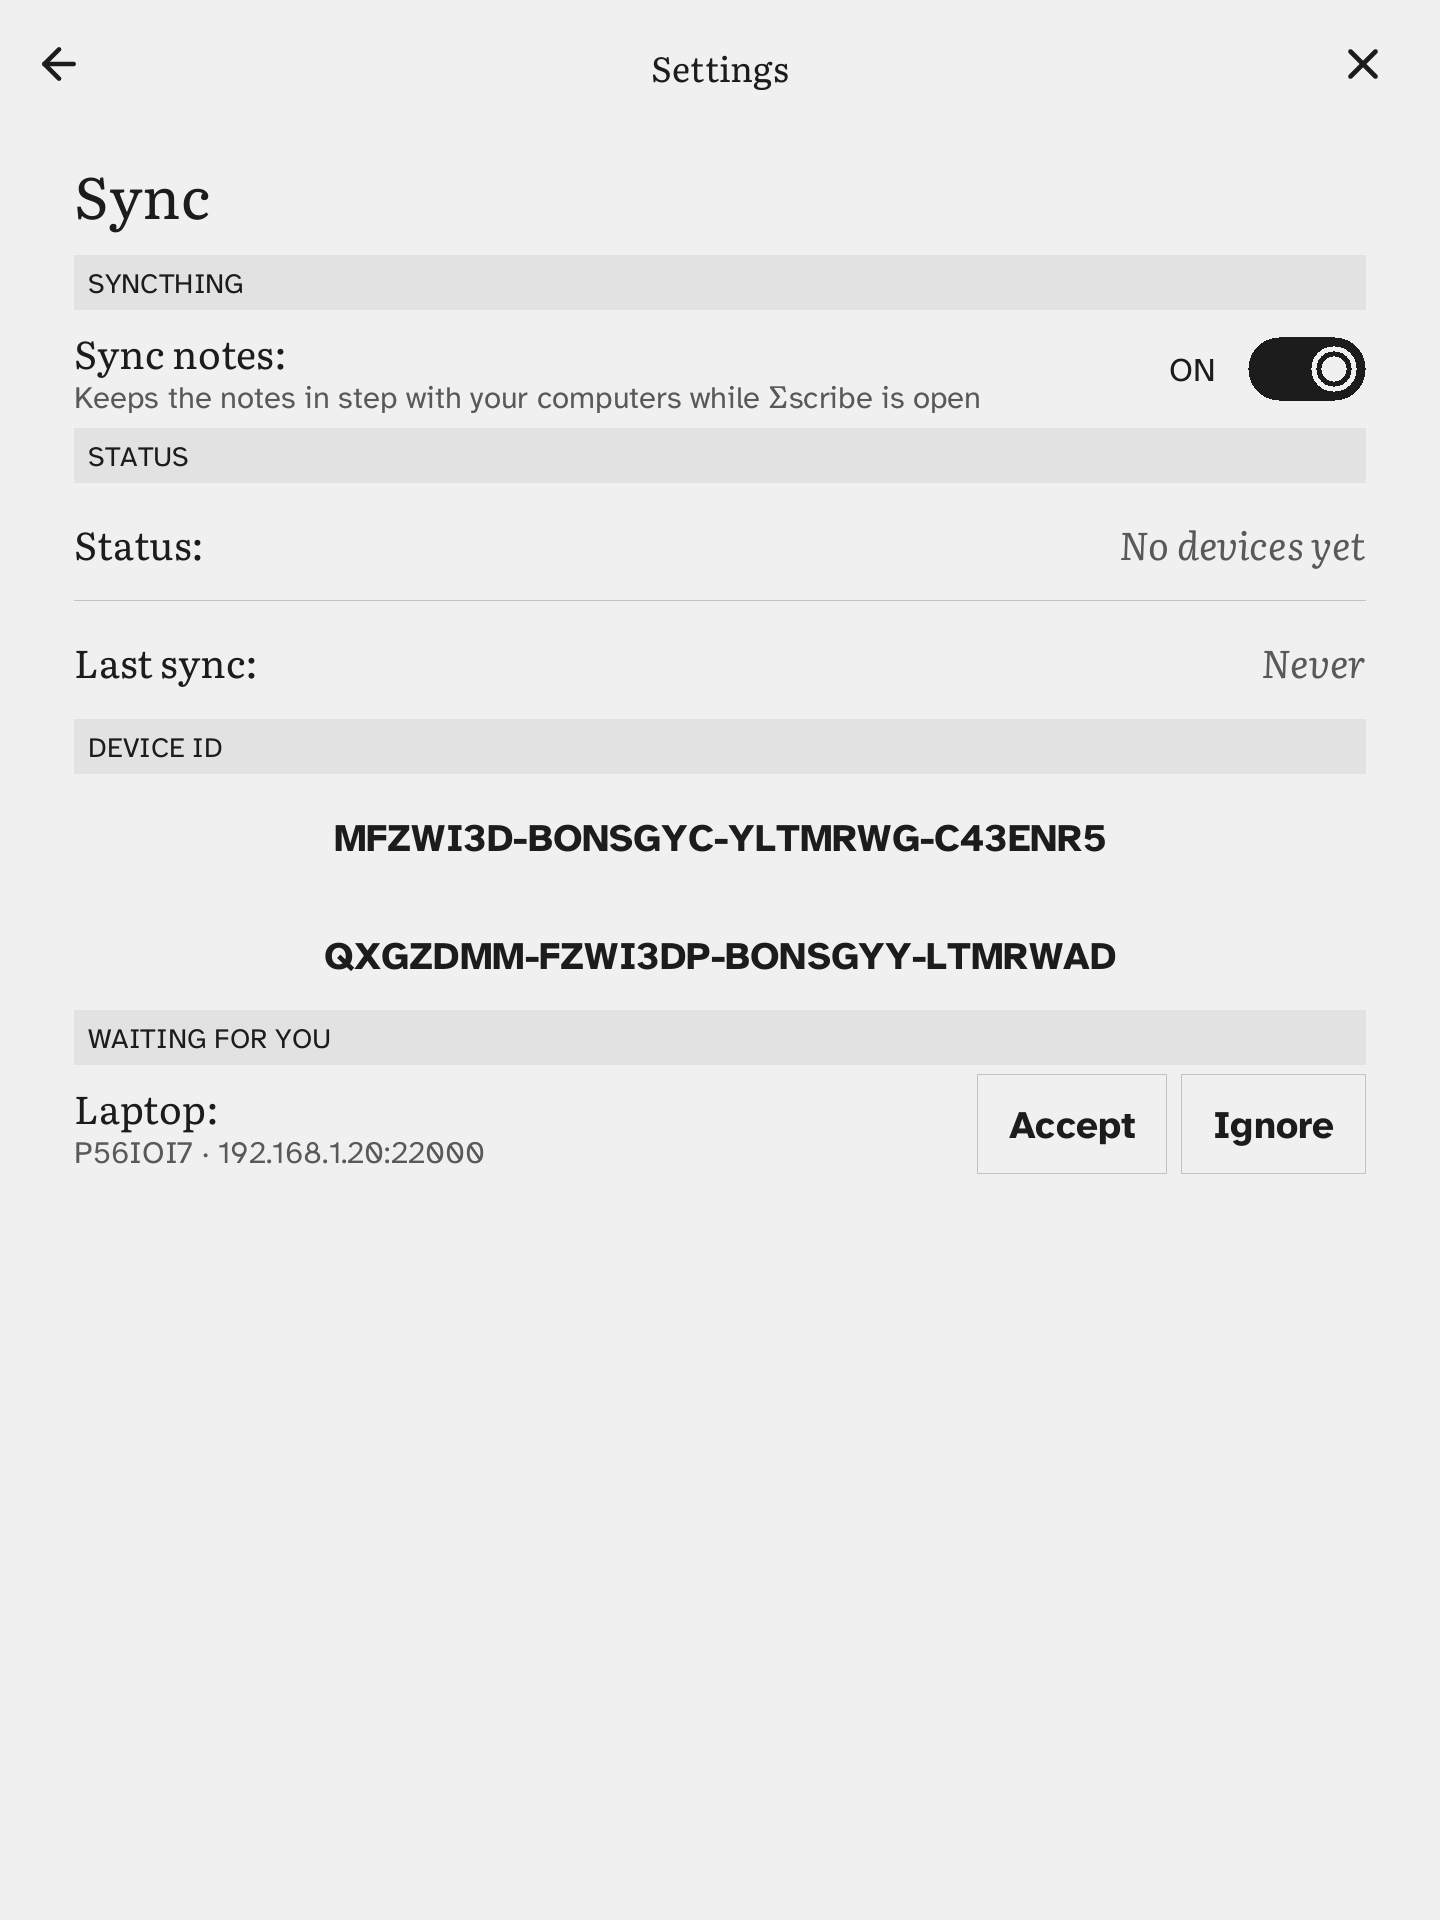
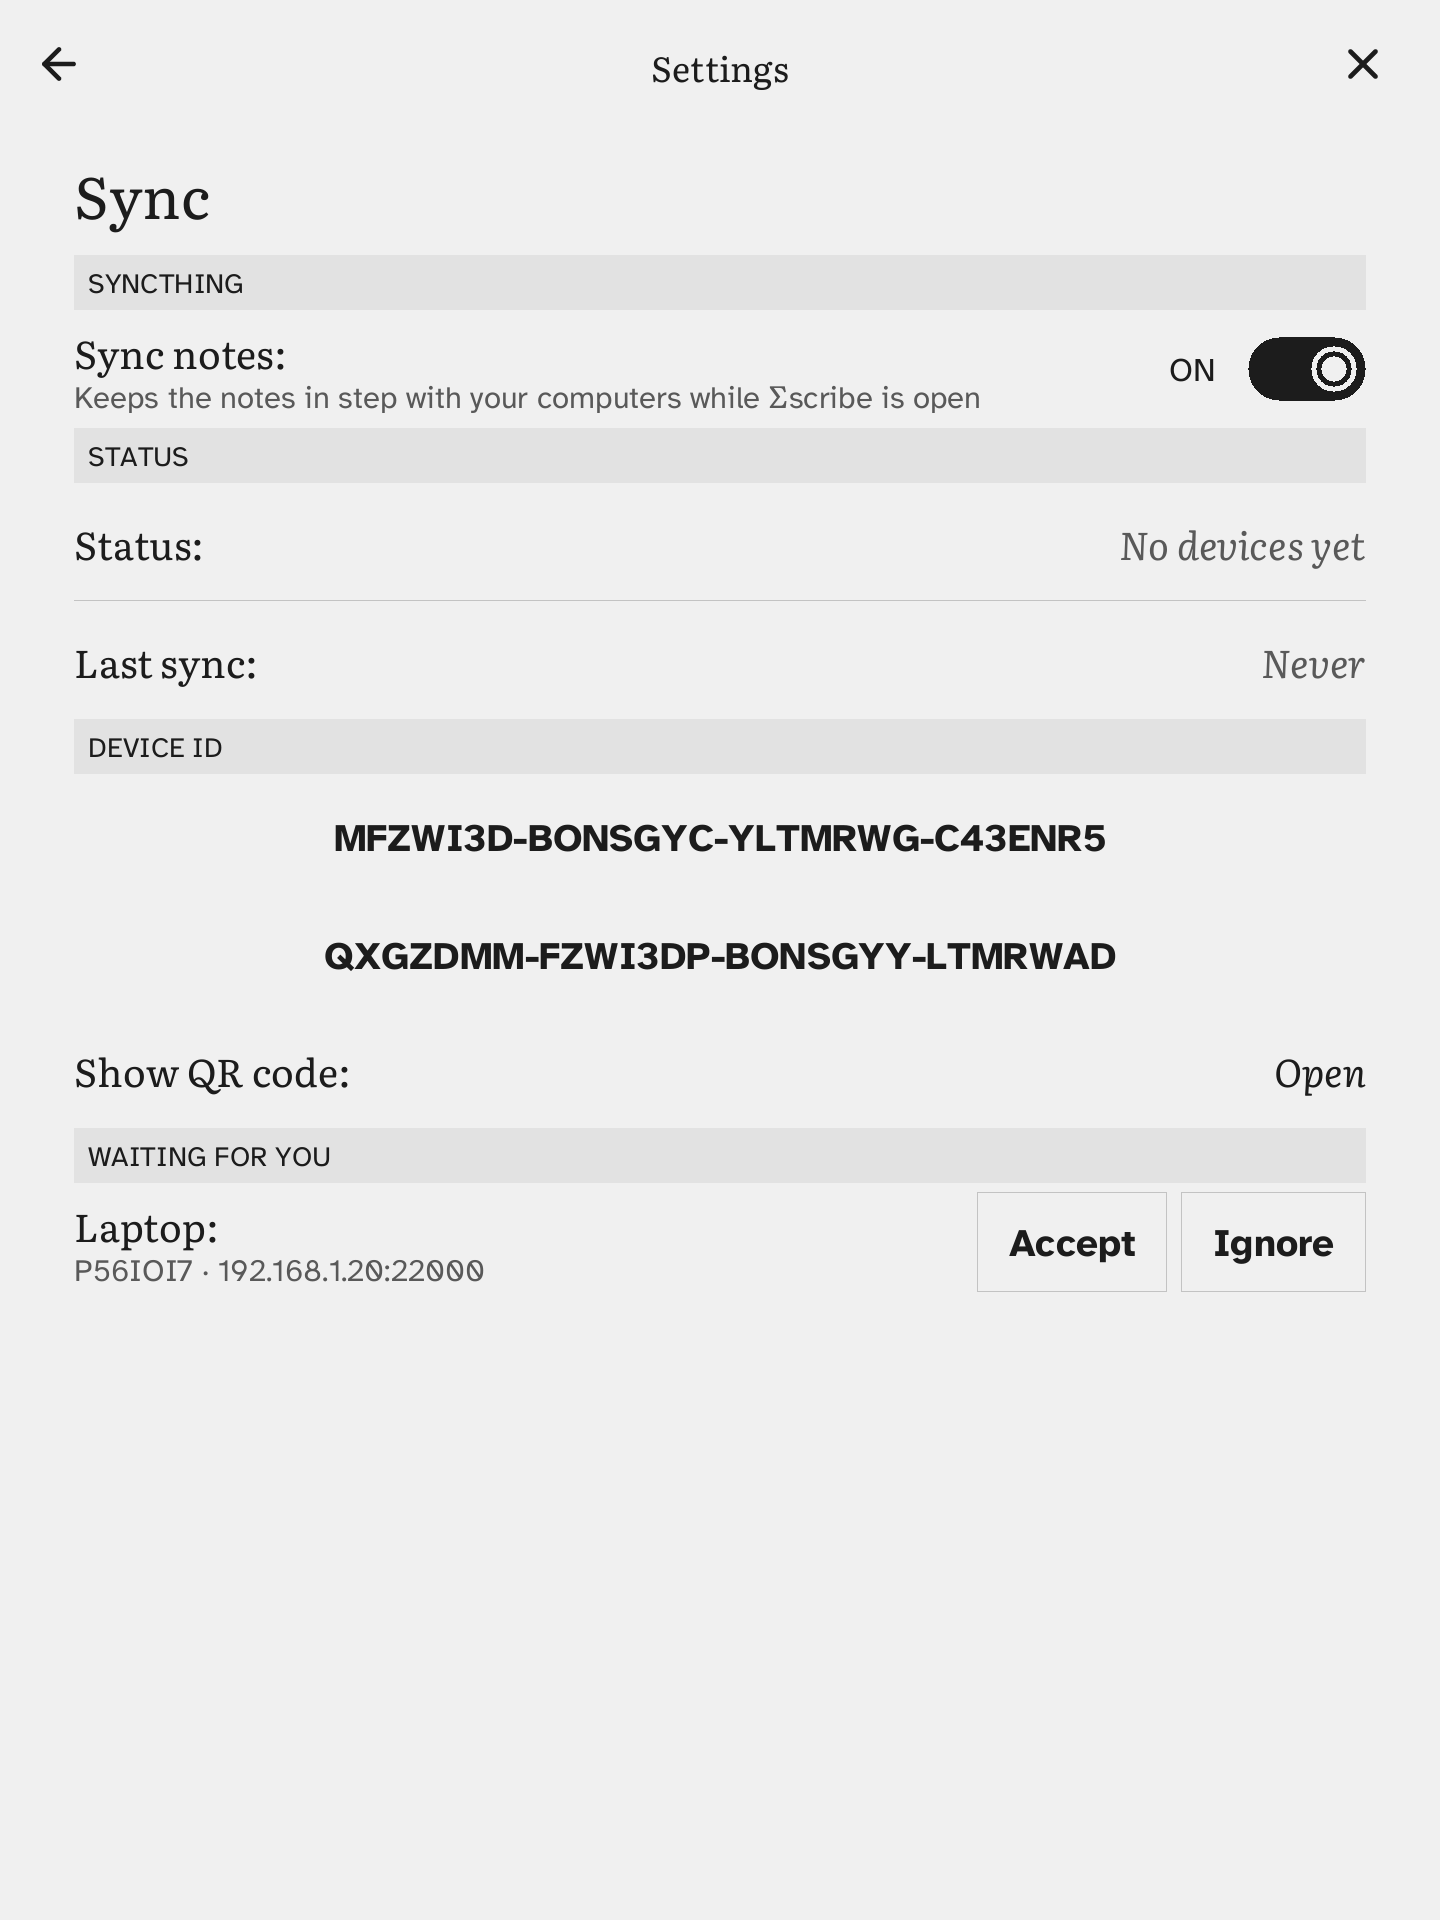
Sync: show the device ID as a QR code
Settings -> Sync has a "Show QR code" row under the ID that opens a page
with the ID as a QR code, for the Syncthing app on a phone to scan.
Black on white, 4-module quiet zone, whole-pixel modules up to 14 px
(about 39 mm on the Forma), error correction M, any orientation or UI
scale. Encoded by qrcodegen (MIT, no dependencies); rqrr (dev only)
decodes the drawn code in the tests.

diff --git a/crates/render/src/options.rs b/crates/render/src/options.rs
@@ -357,6 +357,8 @@ pub enum SettingsPage {
     /// A plugin's own settings: its place in the Plugins list. Reachable
     /// only while the plugin is on.
     Plugin(usize),
+    /// The device ID as a QR code, from Settings → Sync (v1.16).
+    SyncQr,
 }
 
 /// Categories: name, then (section heading, row labels).
@@ -613,6 +615,8 @@ pub struct OptionsModel<'a> {
 pub enum Item {
     /// A section heading.
     Band(&'static str),
+    /// The QR code of this text, centred, in black on white.
+    Qr(String),
     /// A setting.
     Row(DRow),
     /// A category on the root page, with its summary.
@@ -1119,6 +1123,11 @@ fn sync_items(m: &OptionsModel<'_>) -> Vec<Item> {
                 note: None,
             }));
         }
+        out.push(Item::Row(DRow {
+            label: Cow::Borrowed("Show QR code"),
+            kind: Kind::Open(SettingsPage::SyncQr),
+            note: None,
+        }));
     }
     if !v.pending_devices.is_empty() || !v.pending_folders.is_empty() {
         out.push(Item::Band("Waiting for you"));
@@ -1314,6 +1323,7 @@ pub fn page_items(m: &OptionsModel<'_>) -> Vec<Item> {
         SettingsPage::Category(PLUGINS_CATEGORY) => plugin_items(m),
         SettingsPage::Category(SYNC_CATEGORY) => sync_items(m),
         SettingsPage::Plugin(i) => plugin_setting_items(m, i),
+        SettingsPage::SyncQr => vec![Item::Band("Device ID"), Item::Qr(m.sync.device_id.clone())],
         SettingsPage::Category(c) => {
             let mut out = Vec::new();
             for (band, rows) in CATEGORIES[c.min(CATEGORIES.len() - 1)].1 {
@@ -1352,6 +1362,7 @@ pub fn page_title(p: SettingsPage) -> &'static str {
         SettingsPage::Category(c) => CATEGORIES[c.min(CATEGORIES.len() - 1)].0,
         SettingsPage::Choice(_, l) => l,
         SettingsPage::Plugin(_) => CATEGORIES[PLUGINS_CATEGORY].0,
+        SettingsPage::SyncQr => "QR code",
     }
 }
 
@@ -1378,6 +1389,7 @@ pub fn parent(p: SettingsPage) -> Option<SettingsPage> {
         SettingsPage::Category(_) => Some(SettingsPage::Root),
         SettingsPage::Choice(c, _) => Some(SettingsPage::Category(c)),
         SettingsPage::Plugin(_) => Some(SettingsPage::Category(PLUGINS_CATEGORY)),
+        SettingsPage::SyncQr => Some(SettingsPage::Category(SYNC_CATEGORY)),
     }
 }
 
@@ -1588,8 +1600,15 @@ impl EditorScreen {
         // Split into sub-pages; a band never ends a page.
         let all = page_items(m);
         let slider_h = s.px(84.0);
+        // The QR code is as big as the page allows, at most 14 px a module.
+        let qr_h = |text: &str| {
+            let n = crate::qr::modules(text).map_or(21, |(n, _)| n);
+            let px = crate::qr::module_px(n, w - 2 * pad, bottom - top - band_h);
+            (n as i32 + 2 * crate::qr::QUIET) * px
+        };
         let item_h = |it: &Item| match it {
             Item::Band(_) => band_h,
+            Item::Qr(t) => qr_h(t),
             Item::Row(DRow {
                 kind: Kind::Slider { .. },
                 ..
@@ -1732,7 +1751,7 @@ impl EditorScreen {
                                 .map_or(OptionsHit::Nothing, OptionsHit::Change)
                         }
                     },
-                    Item::Band(_) => OptionsHit::Nothing,
+                    Item::Band(_) | Item::Qr(_) => OptionsHit::Nothing,
                 };
             }
         }
@@ -1797,7 +1816,7 @@ impl EditorScreen {
                         }
                     }
                 },
-                Item::Band(_) => {}
+                Item::Band(_) | Item::Qr(_) => {}
             }
         }
         // Names from the 1.4 sheet: `Layout/+` / `Layout/-` on the Layout
@@ -1871,7 +1890,9 @@ impl EditorScreen {
                 let n = ch.len() as i32;
                 Some(ch[(cur + d).rem_euclid(n) as usize].0.clone())
             }
-            SettingsPage::Choice(..) | SettingsPage::Plugin(_) => Some("Back".into()),
+            SettingsPage::Choice(..) | SettingsPage::Plugin(_) | SettingsPage::SyncQr => {
+                Some("Back".into())
+            }
             SettingsPage::Category(c) if c != cat => Some("Back".into()),
             SettingsPage::Category(_) => {
                 let here = self.options_controls(m);
@@ -1940,6 +1961,11 @@ impl EditorScreen {
                         t.ink,
                     );
                     continue;
+                }
+                Item::Qr(text) => {
+                    let n = crate::qr::modules(text).map_or(21, |(n, _)| n);
+                    let px = crate::qr::module_px(n, band.w, band.h);
+                    crate::qr::draw(c, text, band.x + band.w / 2, band.y, px);
                 }
                 Item::Category(i, sum) => {
                     self.fonts.draw(

diff --git a/crates/render/src/qr.rs b/crates/render/src/qr.rs
@@ -1,0 +1,101 @@
+//! A QR code of text (the Kobo's Syncthing device ID), as a module matrix
+//! and drawn in whole pixels. Black on white whatever the page theme: phone
+//! scanners want the contrast. Encoded by `qrcodegen` at error correction M.
+
+use crate::canvas::{Canvas, Rect};
+use qrcodegen::{QrCode, QrCodeEcc};
+
+/// Quiet zone around the code, in modules (the QR specification asks for 4).
+pub const QUIET: i32 = 4;
+
+/// The largest module the page draws, in pixels: 14 px is about 1.2 mm on
+/// the Forma (300 dpi), so a device ID's 33-module code is about 39 mm
+/// across, quiet zone not counted.
+pub const MAX_MODULE: i32 = 14;
+
+/// The code for `text`: its side in modules and the modules in rows
+/// (`true` = dark). `None` when the text does not fit a QR code.
+#[must_use]
+pub fn modules(text: &str) -> Option<(usize, Vec<bool>)> {
+    let qr = QrCode::encode_text(text, QrCodeEcc::Medium).ok()?;
+    let n = usize::try_from(qr.size()).ok()?;
+    let mut out = Vec::with_capacity(n * n);
+    for y in 0..qr.size() {
+        for x in 0..qr.size() {
+            out.push(qr.get_module(x, y));
+        }
+    }
+    Some((n, out))
+}
+
+/// Pixels per module for a code of `n` modules (plus its quiet zone) that
+/// must fit in `w` by `h` pixels; whole pixels, at least 1, at most
+/// [`MAX_MODULE`].
+#[must_use]
+pub fn module_px(n: usize, w: i32, h: i32) -> i32 {
+    let span = n as i32 + 2 * QUIET;
+    (w.min(h) / span).clamp(1, MAX_MODULE)
+}
+
+/// Draws the code of `text` with its quiet zone centred on `x` (the middle
+/// of a column) and starting at `y`, `px` pixels to the module. Returns the
+/// square it covers, or `None` when the text cannot be encoded.
+pub fn draw(c: &mut Canvas, text: &str, cx: i32, y: i32, px: i32) -> Option<Rect> {
+    let (n, mods) = modules(text)?;
+    let side = (n as i32 + 2 * QUIET) * px;
+    let area = Rect::new(cx - side / 2, y, side, side);
+    c.fill(area, 255);
+    for (i, &dark) in mods.iter().enumerate() {
+        if dark {
+            let (mx, my) = ((i % n) as i32, (i / n) as i32);
+            c.fill(
+                Rect::new(
+                    area.x + (QUIET + mx) * px,
+                    area.y + (QUIET + my) * px,
+                    px,
+                    px,
+                ),
+                0,
+            );
+        }
+    }
+    Some(area)
+}
+
+#[cfg(test)]
+mod tests {
+    use super::*;
+
+    const ID: &str = "MFZWI3D-BONSGYC-YLTMRWG-C43ENR5-QXGZDMM-FZWI3DP-BONSGYY-LTMRWAD";
+
+    #[test]
+    fn a_device_id_is_a_version_4_code_in_alphanumeric_mode() {
+        let (n, m) = modules(ID).unwrap();
+        assert_eq!(n, 33, "version 4: the ID is upper case, digits and dashes");
+        assert_eq!(m.len(), 33 * 33);
+        // Finder pattern corner: the top-left 7x7 has a dark ring.
+        assert!(m[0] && m[6] && m[6 * 33] && !m[33 + 1]);
+    }
+
+    #[test]
+    fn modules_are_whole_pixels_and_fit() {
+        assert_eq!(module_px(33, 1296, 1500), MAX_MODULE);
+        assert_eq!(module_px(33, 450, 1500), 450 / 41);
+        assert_eq!(module_px(33, 10, 10), 1);
+    }
+
+    #[test]
+    fn the_drawn_code_reads_back_as_the_id() {
+        let mut c = Canvas::new(700, 700, 200);
+        let r = draw(&mut c, ID, 350, 40, MAX_MODULE).unwrap();
+        assert_eq!(r.w, (33 + 8) * MAX_MODULE);
+        // Quiet zone is white, and the area is square.
+        assert_eq!(c.pixels[(r.y as usize) * 700 + r.x as usize], 255);
+        let mut img =
+            rqrr::PreparedImage::prepare_from_greyscale(700, 700, |x, y| c.pixels[y * 700 + x]);
+        let mut grids = img.detect_grids();
+        assert_eq!(grids.len(), 1);
+        let (_, text) = grids.remove(0).decode().unwrap();
+        assert_eq!(text, ID);
+    }
+}

diff --git a/app/tests/sync_settings.rs b/app/tests/sync_settings.rs
@@ -289,3 +289,36 @@ fn turning_sync_on_runs_it_and_accepting_reaches_syncthing() {
         .any(|s| s.0 == "POST /rest/system/shutdown"));
     let _ = std::fs::remove_dir_all(&d);
 }
+
+#[test]
+fn the_qr_page_draws_a_code_that_reads_back_as_the_device_id() {
+    for (w, h, scale) in [(1440, 1920, 200u16), (1920, 1440, 200), (1440, 1920, 100)] {
+        let (mut r, d) = Rig::new("qr");
+        r.app.settings.sync = true;
+        r.app.change(sigma_core::settings::Change::UiScaleTo(scale));
+        if w > h {
+            r.app.change(sigma_core::settings::Change::Orientation(
+                sigma_core::settings::Orientation::Landscape,
+            ));
+        }
+        r.open_sync_page();
+        // No ID yet: no QR row.
+        assert!(r.app.control_centre("Show QR code").is_none());
+        r.app.set_sync_view(running());
+        r.app.render(&mut r.dev, Refresh::Full).unwrap();
+        r.tap_on("Show QR code");
+        assert_eq!(r.app.settings_page, SettingsPage::SyncQr);
+        let c = &r.app.canvas;
+        let (cw, ch) = (c.width as usize, c.height as usize);
+        let mut img =
+            rqrr::PreparedImage::prepare_from_greyscale(cw, ch, |x, y| c.pixels[y * cw + x]);
+        let grids = img.detect_grids();
+        assert_eq!(grids.len(), 1, "{w}x{h} at {scale} %");
+        let (_, text) = grids.into_iter().next().unwrap().decode().unwrap();
+        assert_eq!(text, ME);
+        // Back goes to the Sync page.
+        r.tap_on("Back");
+        assert_eq!(r.app.settings_page, SettingsPage::Category(SYNC_CATEGORY));
+        let _ = std::fs::remove_dir_all(&d);
+    }
+}

diff --git a/crates/render/src/lib.rs b/crates/render/src/lib.rs
@@ -21,6 +21,7 @@ pub mod options;
 pub mod plugin_screen;
 pub mod pointer;
 pub mod preview;
+pub mod qr;
 pub mod radio;
 pub mod scrollbar;
 pub(crate) mod shape;

diff --git a/CHANGELOG.md b/CHANGELOG.md
@@ -4,6 +4,7 @@ All notable changes to Σscribe. Versions are tagged after they pass on the Kobo
 
 ## Unreleased
 
+- **Settings → Sync shows the device ID as a QR code.** Under the ID, "Show QR code" opens a page with the ID (the plain string Syncthing's own GUI encodes) as a QR code, for the Syncthing app on a phone to scan (Devices → +). Black on white with a 4-module quiet zone whatever the page theme, whole pixels per module up to 14 (about 39 mm across on the Forma), error correction M, in portrait and landscape and at every UI scale. New dependency `qrcodegen` (MIT, no dependencies); `rqrr` (dev only, no default features; MIT/Apache-2.0 and ISC) decodes the drawn code in the tests. New `sigma_render::qr`, `SettingsPage::SyncQr`, `Item::Qr`; two new strings in the nine catalogs. Tests: `crates/render/src/qr.rs`, `app/tests/sync_settings.rs`; emulator `tests/emu/v1.16-sync.script` (`docs/screenshots/v1.16/v1.16-sync-qr.png`). Not yet scanned on the Forma (`docs/sync.md` §12.12).
 - **Fix: More in Files always shows Rename / Move / Delete.** On the last row that fitted on a page the action row did not fit above the bottom buttons, so More looked open and nothing showed (found on the Forma). Opening More now scrolls the list just far enough that the row and its actions both sit above the buttons (or the keyboard); a row that already fits does not move, and the list stays there when More closes. A page turn closes More, so its actions never belong to a row that left the page, and clears the Trash's selection, so Restore only acts on what is on screen. A status line ("Restored to …", "Trash emptied") now has its own line above the buttons instead of drawing over the last row. `FilesLayout::first` says where the list starts. Tests: `crates/render/src/files.rs`, `app/tests/files_more.rs`, `tests/emu/v1.17-files-more.script` (screenshots in `docs/screenshots/v1.17/`).
 - **Files writes to the log.** With Settings → Logging on, each action leaves a line (source `files`, INFO): `new note`, `new folder`, `rename a -> b`, `move a -> b`, `delete a -> .trash/<time>/…`, `restore a` (`restore a as b (the name was taken)` when it came back under another name) and `empty trash (n items)`; a failure is a WARNING with the reason. Opening the Trash is `ui: open trash` (DEBUG). Paths only, no note text. Listed in `docs/logging.md`. Test: `app/tests/files_log.rs`.
 - **The light and warmth probe now reaches the log.** On the Forma the `light:` lines (what sysfs shows, which backlight was picked, and `warmth mixer … (step …)` or `no warmth mixer found`) never appeared: the device is opened and probed before the app reads its settings and switches the log on, so they were dropped. The device now keeps what the probe found and the app logs it, once, as it starts running, right after the `logging on` line (Settings → Logging has to be on before the start; the lines say nothing if the log was off then). New `Device::light_report` and `sigma_device::light::probe`. Tests: `crates/device/src/light.rs`, `app/tests/logging.rs`.

diff --git a/docs/sync.md b/docs/sync.md
@@ -224,11 +224,20 @@ and the Kobo has no copy and paste out. So the Kobo is the one that is
    at the notes path (§6), and syncing starts. **Ignore** dismisses the offer
    for now (`DELETE …/pending/…`); it can come back on the next connection.
 
-A QR code of the ID was considered. It is not cheap: an encoder with
-Reed-Solomon and mask scoring is a few hundred lines to write and verify with
-no scanner here, and the desktop's Add Device dialog does not scan. Deferred.
-A phone running the Syncthing app can scan it from the *computer's* screen,
-which does not need it on the Kobo.
+**Pairing by scanning.** Under the ID, **Show QR code** opens a full page
+with the ID as a QR code (the plain ID string with its dashes, which is what
+Syncthing's own GUI encodes and what the Android app's scanner reads). On the
+phone: Syncthing app → Devices → + → scan. The phone then adds the Kobo; the
+computer can be added to the Kobo the usual way (above) or the phone can
+introduce it. The code is black on white with a 4-module quiet zone whatever
+the Night setting, whole pixels per module, up to 14 px: about 39 mm across at
+the Forma's 300 dpi (the ID is upper case, digits and dashes, so it fits QR
+version 4, 33 modules, at error correction M). It is made by the `qrcodegen`
+crate (MIT, no dependencies, one file; chosen over writing an encoder, which
+is a few hundred lines to get right). The desktop's Add Device dialog does not
+scan; the typed ID above still works. Only after the ID is known does the row
+appear. Whether a phone reads it off e-ink at arm's length is for the Forma
+checklist (§12).
 
 First sync with notes already on both sides is Syncthing's usual merge: the
 newer copy of a file with the same name wins and the other is kept as a
@@ -363,6 +372,10 @@ did not touch the device. For `docs/device-checklist-prerelease.md`:
    a PEM). Local discovery on the same Wi-Fi does not need it.
 10. Syncing a few hundred notes the first time: does the app stay responsive
     (typing latency in `perf:` lines) while Syncthing hashes?
+12. QR code: Settings → Sync → Show QR code; the Syncthing app on a phone
+    (Devices → + → scan) reads it from the Forma's screen at normal reading
+    distance, in the room's light, and offers the right device ID. Try Night
+    mode too (the code must stay black on white).
 11. Loopback (found on the Forma, fix not yet tried there): the launcher log has
     `net: lo has no 127.0.0.1, bringing it up` then a `net: lo: inet …` line;
     `.adds/sigma-scribe/log/syncthing.log` has no "cannot assign requested
@@ -372,7 +385,6 @@ did not touch the device. For `docs/device-checklist-prerelease.md`:
 
 ## 13. Not done / later
 
-- A QR code of the device ID (§7).
 - Refreshing the Files list and the drawer panes live when a sync lands.
 - An on-screen message when a note is reloaded or kept as a conflict, and
   showing which note changed.
